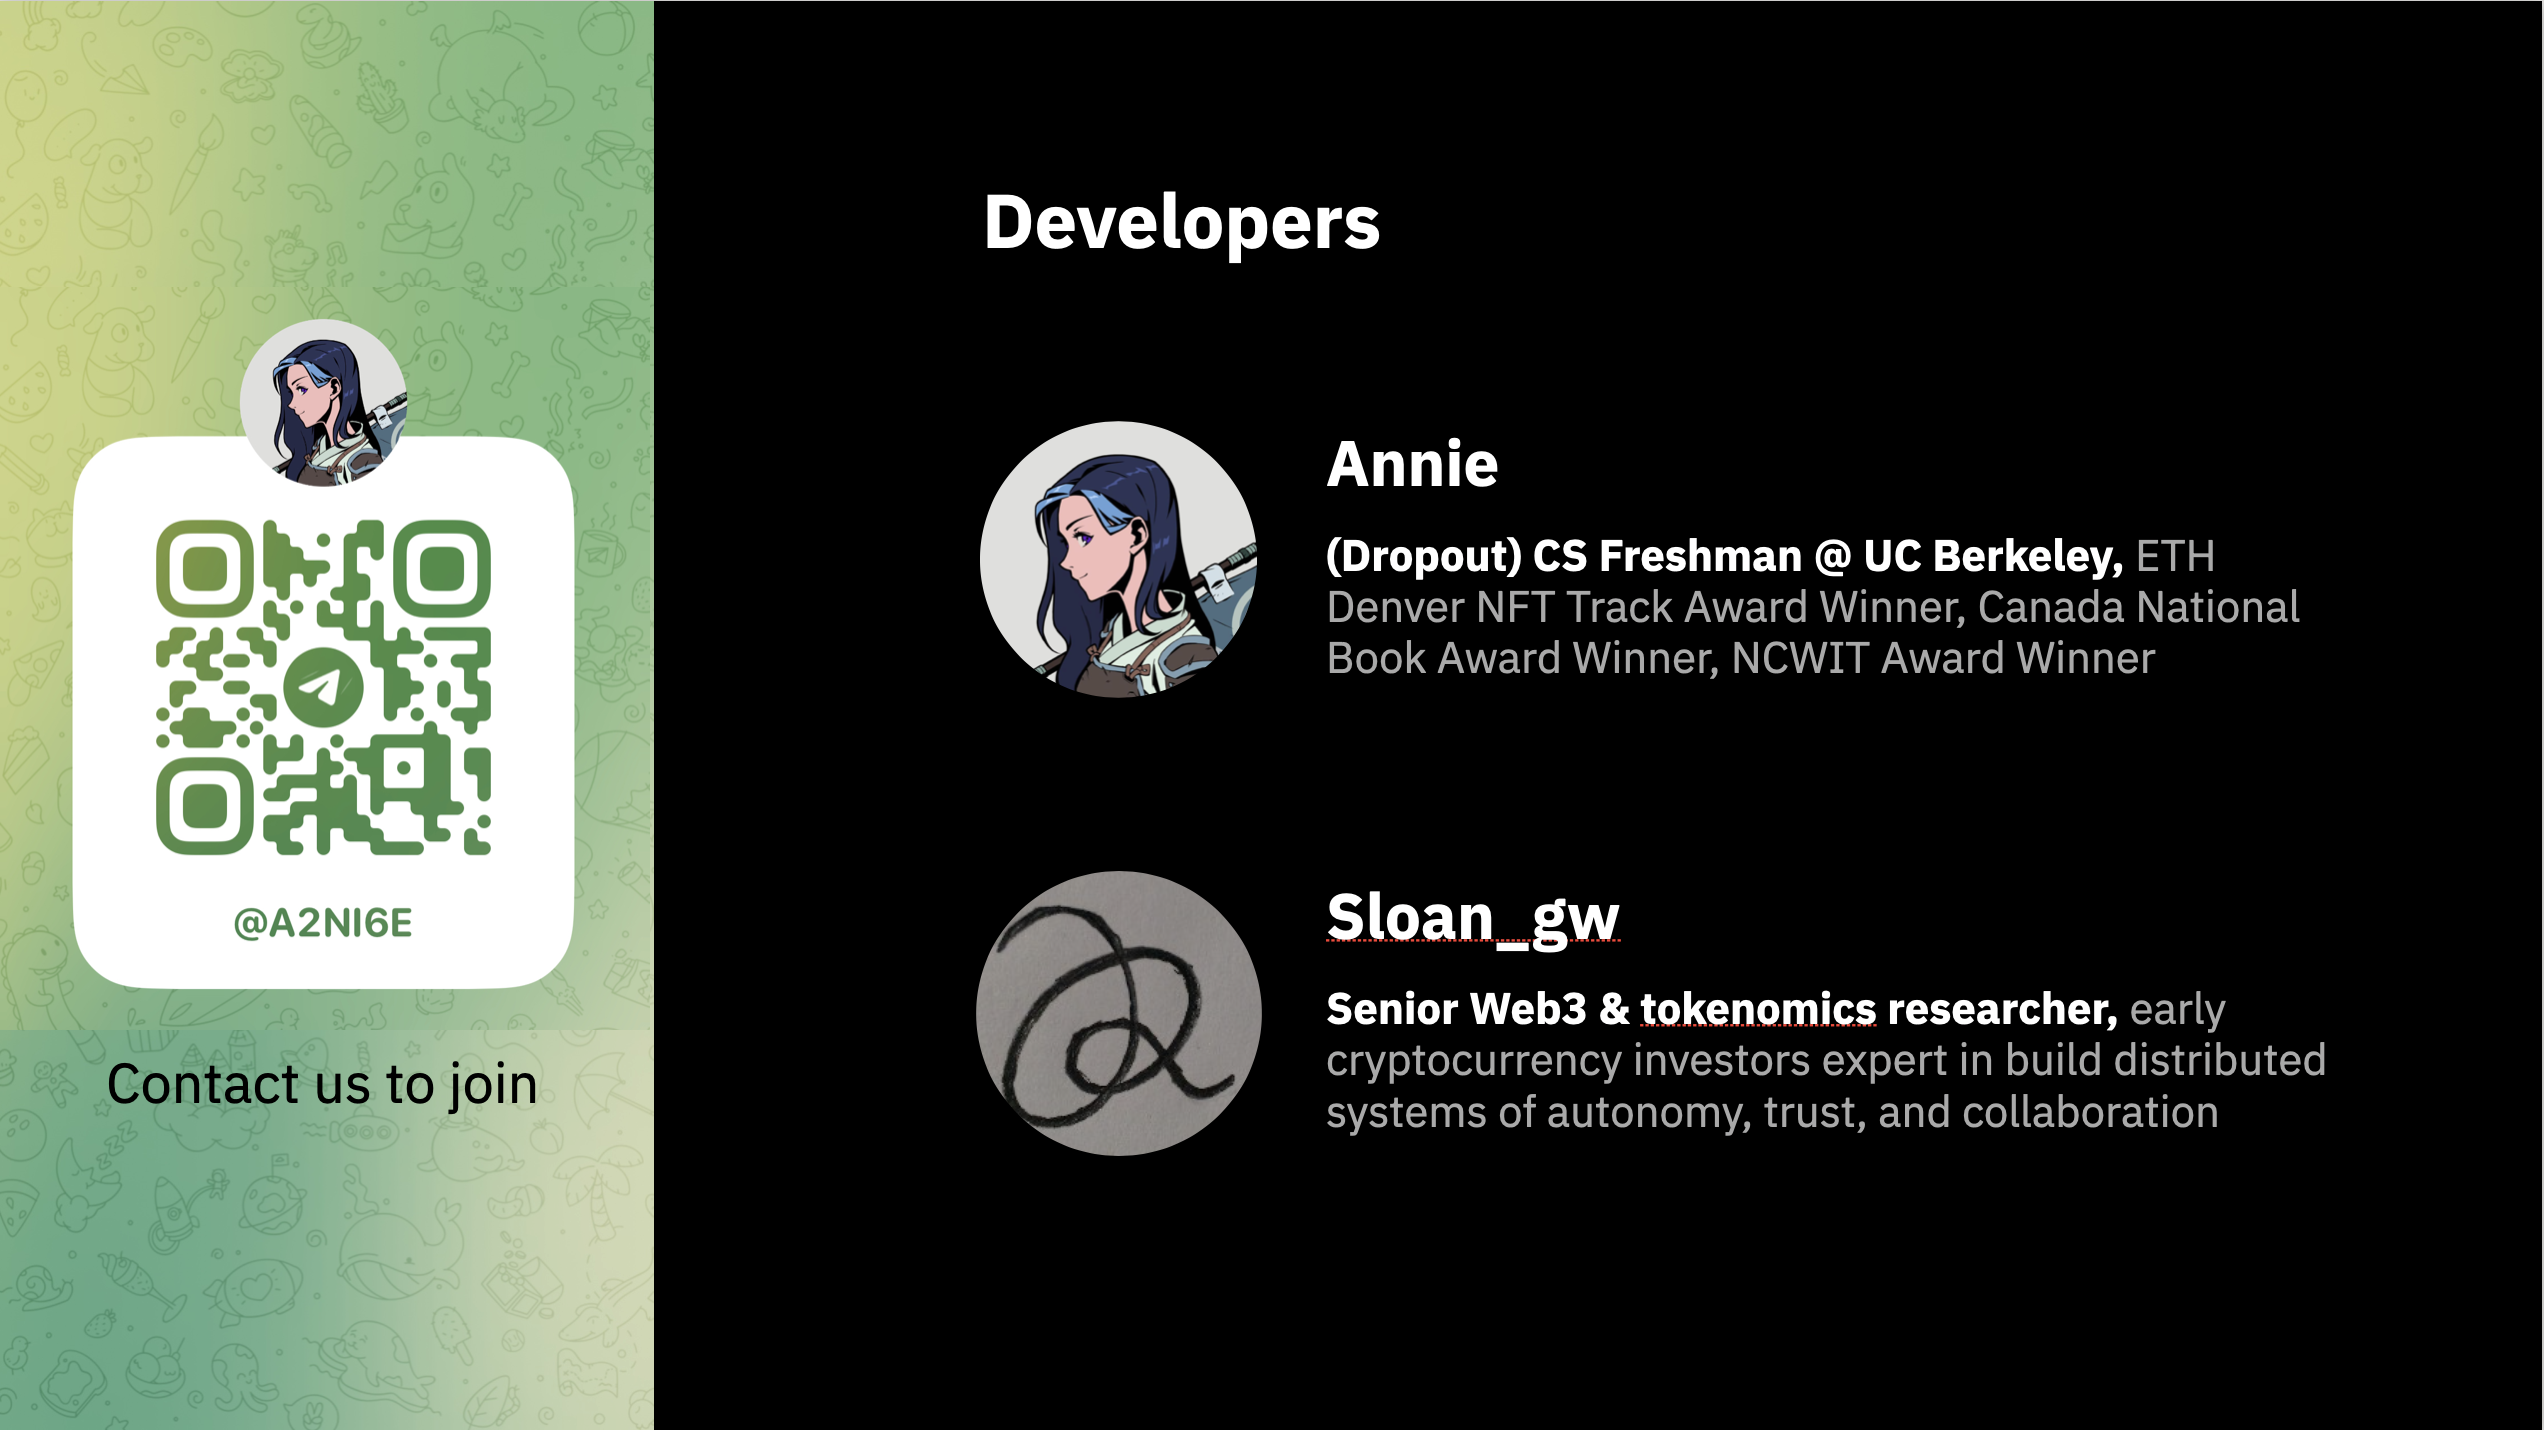
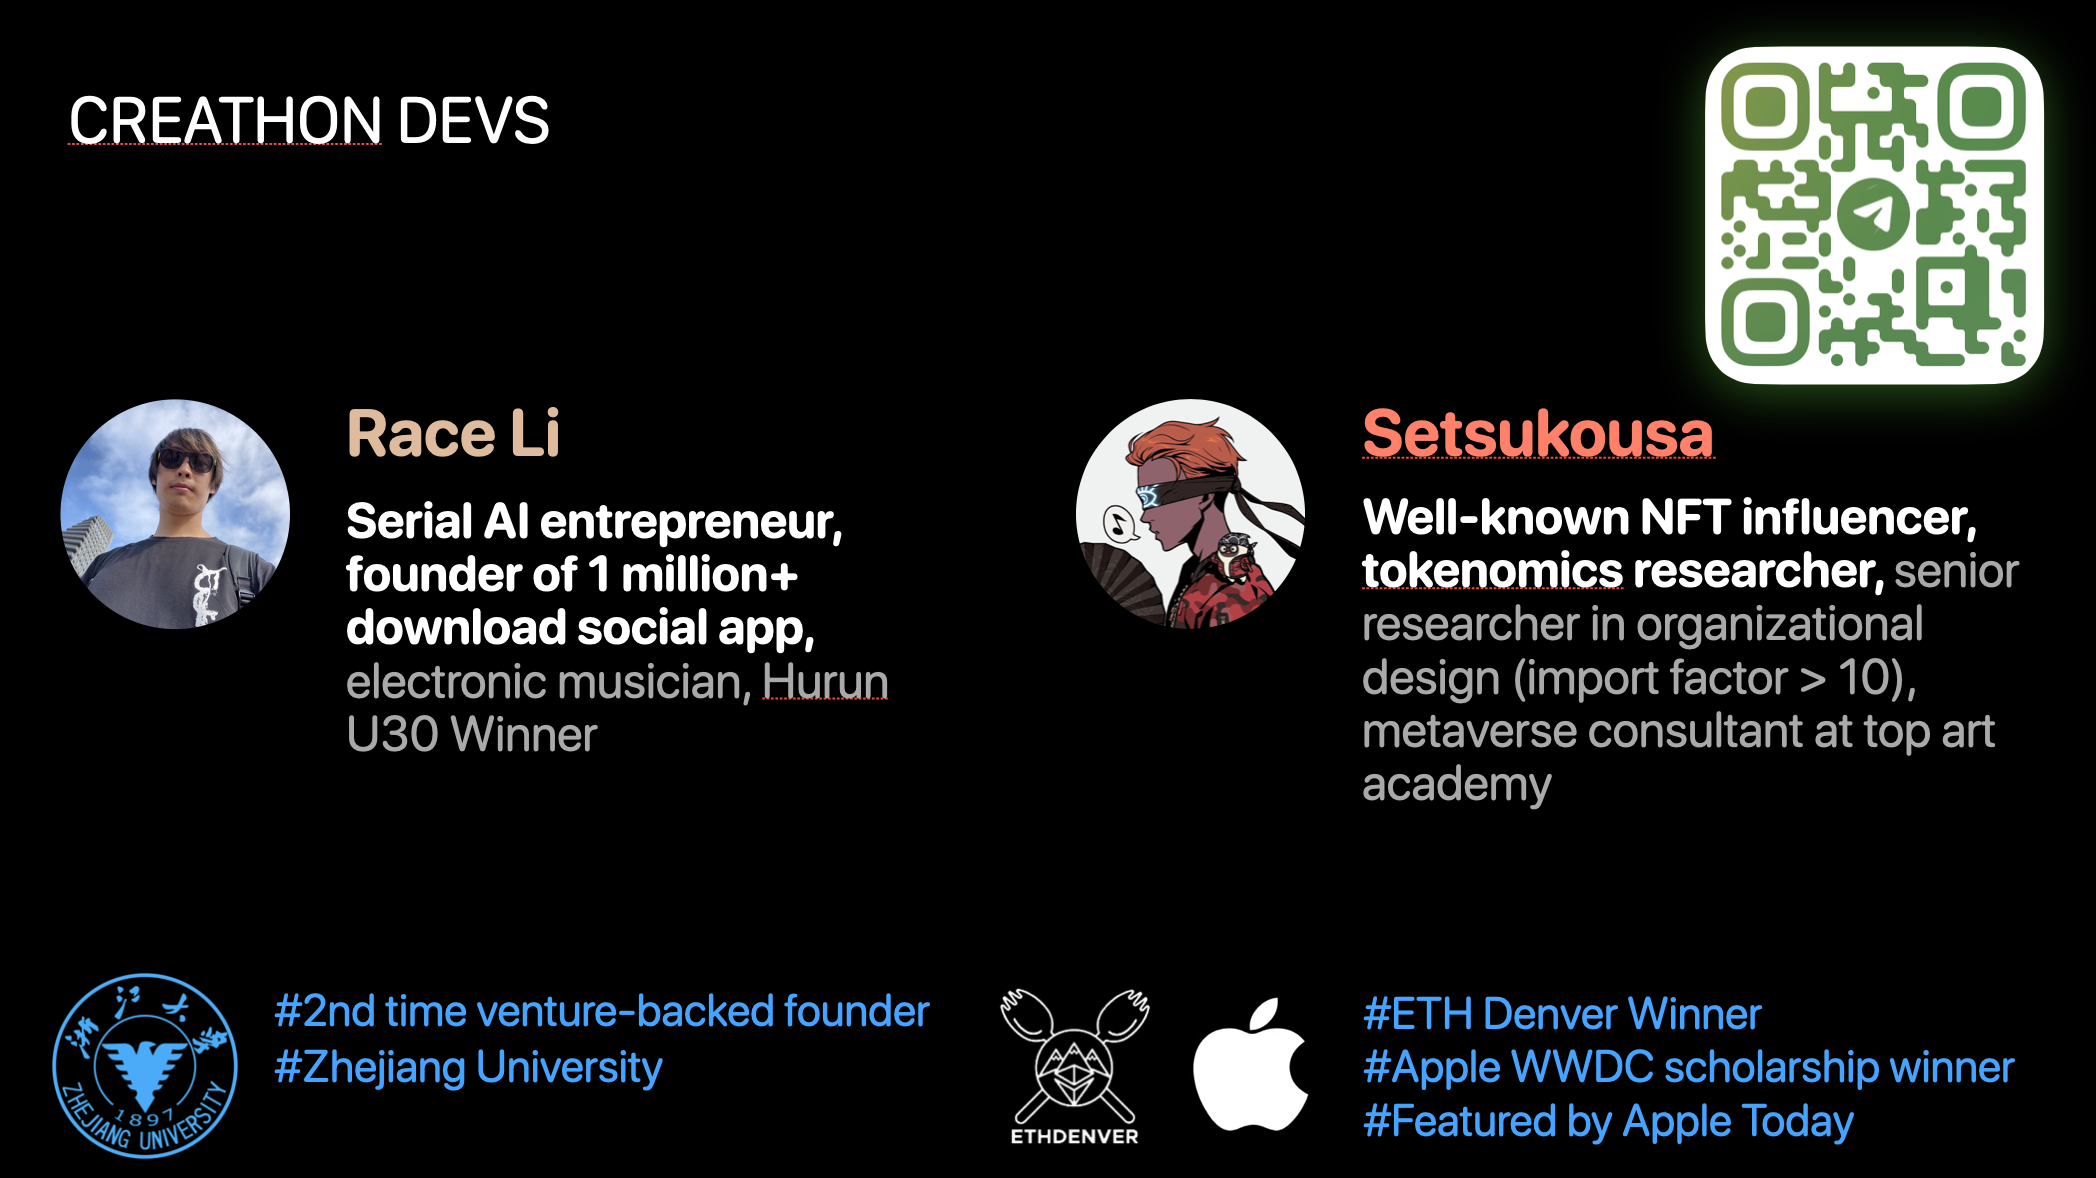
update readme

diff --git a/README.md b/README.md
@@ -1,15 +1,24 @@
 # Pinnect
-Game-map collaboration, all for gammers, with Solana
+Game-map collaboration, all for gammers.
+Pinnect is a visionary platform designed to revolutionize collaborative storytelling within the Solana ecosystem. With a seamless blend of interactive map exploration, tag management, and relationship visualization, Pinnect empowers users to co-create immersive narratives and gaming experiences like never before.
+![Pinnect.001.png](/images/Pinnect.001.png)
+## Track: Layer 2 Application
 Deck: https://docsend.com/view/zkpsurvwxkq9pq98 
-![Pinnect.001.jpeg](/images/Pinnect.001.jpeg)
-## Solana GameKit Integrated
-Pinnect is poised to take full advantage of the Solana Games Kit, to go bigger, faster, and smarter in the realm of collaborative storytelling and interactive gaming.
-![PinnectGameKit.png](/images/PinnectGameKit.png)
+Pitch Video: https://youtu.be/Tr6Xrd_Swys
+[![Demo Video](http://img.youtube.com/vi/Tr6Xrd_Swys/0.jpg)](http://www.youtube.com/watch?v=Tr6Xrd_Swys "Pinnect Eth Hangzhou")
+
+## Key Features
+1. Interactive Map Collaboration: Pinnect offers an engaging map interface where users can explore, contribute, and interact with various storytelling locations. Each click on the map initiates a unique narrative journey, connecting users through a shared gaming universe.
+2. Efficient Tag Editing: Managing tags has never been easier. Pinnect's tag editing interface allows users to refine titles, descriptions, and relationships effortlessly. Users can create hyperlinks between tags and ensure organized and interconnected storytelling.
+3. Relationship Flow: Pinnect's Relationship Flow feature simplifies tag relationship visualization. Users can connect tags, choose direction (preceding or following), and define relationship types, enabling branching storylines and fostering creative collaboration.
+4. On-Chain Contribution: Pinnect promotes fairness and transparency through on-chain contributions. Content is securely anchored on the blockchain, ensuring equitable rewards and incentivizing active participation.
+5. Cross-Platform Wallet Integration: Our platform offers cross-platform wallet support, allowing users to seamlessly access their Solana wallets across various devices and platforms, making transactions and asset management convenient and consistent.
+
 ![Pinnect.002.jpeg](/images/Pinnect.002.jpeg)
-## Pinnect contribute to Solana ecosystem with
-1. **Solana Creator Ecosystem**: By attracting **gamers and storytellers** to your platform, Pinnect can introduce **more users** to the Solana blockchain. This increased user adoption strengthens the Solana ecosystem, potentially leading to more participants in other Solana-powered projects and games.
-2. **Seamless Interoperability**: Solana's architecture, designed for interoperability, is perfectly aligned with **Pinnect's vision**. It allows for horizontal scalability while maintaining a shared state, ensuring that connecting Solana and gaming communities remains seamless. Gamers and storytellers can effortlessly move between Pinnect and other Solana-powered games, creating a cohesive and immersive experience.
-3. **Empowering the Metaverse**: With Solana Games Kit's capabilities, Pinnect can usher in a new era of decentralized marketplaces, **cross-game item integration**, and **fully on-chain storytelling elements**. Users can seamlessly incorporate assets from other Solana-powered games into their **collaborative narratives**, creating a metaverse where storytelling knows no boundaries.
+## Pinnect contribute to Ethereum ecosystem with
+1. **Ethereum Creator Ecosystem**: By attracting **gamers and storytellers** to our platform, Pinnect can introduce **more users** to the Ethereum and Layer2 ecosystems. This increased user adoption strengthens the ecosystems, potentially leading to more participants in other Ethereum and Layer 2-powered projects and games.
+2. **Seamless Interoperability and Cross-chain Support**: Ethereum's and Layer 2's architectures, designed for interoperability, align perfectly with **Pinnect's vision**. They allow for horizontal scalability while maintaining a shared state, ensuring seamless connection between Pinnect, gaming communities and various Layer 2 solutions. Gamers and storytellers can effortlessly move between Pinnect and other Ethereum or Layer2-powered games, creating a cohesive and immersive experience. 
+3. **Empowering the Metaverse**: With the capabilities of Ethereum, Pinnect can usher in a new era of decentralized marketplaces, **cross-game item integration**, and **fully on-chain storytelling elements**. Users can seamlessly incorporate assets from other Ethereum or Layer2-powered games into their **collaborative narratives**, creating a metaverse where storytelling knows no boundaries.
 
 ![PinnectSynergy](/images/PinnectSynergy.png)
 ## Game-map Collaboration
@@ -53,15 +62,30 @@ The layout of the edit box, from top to bottom, is as follows:
 
 ## Connect Wallet with cross-platform support on Solana
 Contribute on-chain for fair incentive and collaboration
-![Pinnect.006.jpeg](/images/Pinnect.006.jpeg)
+![Pinnect.006.png](/images/Pinnect.006.png)
 ![Pinnect.007.jpeg](/images/Pinnect.007.jpeg)
+## Team
+**Race Li**, co-initiator of magipop, serial entrepreneur, 2nd venture backed founders, previously founded an AI Music startup, made a social app with 1 million+ downloads, Apple WWDC (Worldwide Developers Conference) Scholarship Winner, Hurun U30 Winner, electronic musician.
 
-## Developers
-**Annie Karen**
-(Dropout) CS Freshman @ UC Berkeley, ETH Denver NFT Track Award Winner, Canada National Book Award Winner, NCWIT Award Winner.
-
-**Sloan_gw**
-Senior Web3 & tokenomics researcher, early cryptocurrency investors expert in build distributed systems of autonomy, trust, and collaboration.
-
+**Setsukousa**, co-initiator of magipop, senior Web3 researcher, research published in Chaos, Solitons & Fractals, cryptocurrency investors, master in financial physics at ZJU, metaverse consultant at fine arts institute.
 ### Add Telegram and contribute with us!
 ![Pinnect.008.jpeg](/images/Pinnect.008.png)
+## Goals for This Hackathon
+- The project is an original creation that started from scratch during this hackathon. We aim to create a practical solution in the field of collaborative creativity within gaming communities.
+- We plan to integrate and utilize the Ethereum ecosystem, exploring high-performance creative collaboration solutions through Layer2 integrations.
+- We look forward to moving forward together with talented buidlers globally.
+## Progress in the First Two Days of the Hackathon
+- On the Oct 13th and 14th, we discussed and validated concepts, and performed user validation.
+- From the Oct 14th to the 15th, we divided tasks and carried out front-end and back-end development, contract deployment, and debugging.
+## Github repo
+https://github.com/DocRace/Pinnect
+## Originality Statement
+This project, developed from scratch during this hackathon, is a completely original creation.
+## Demo links
+Deck: https://docsend.com/view/zkpsurvwxkq9pq98 
+Pitch Video: 
+## Contact us
+Race Li
+Telegram @RaceLi
+Twitter @melitosnap
+Email callmerace@hotmail.com
